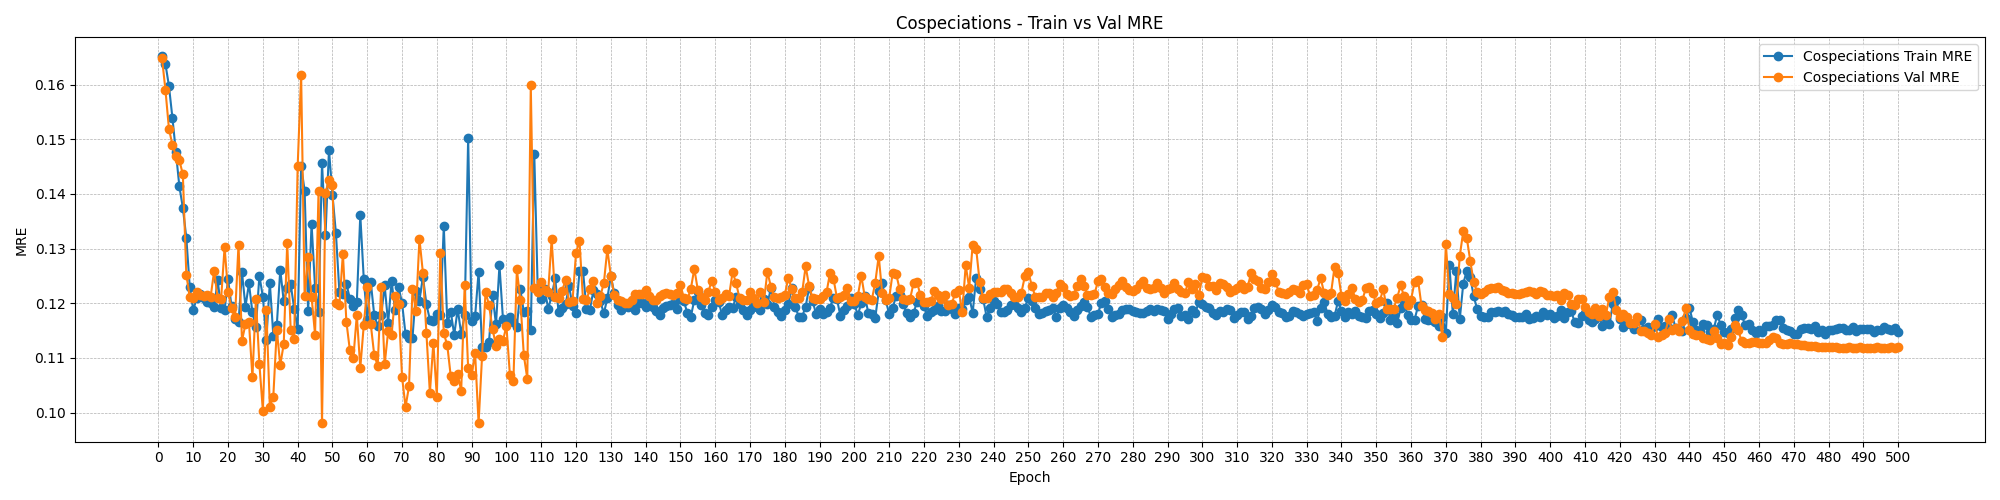
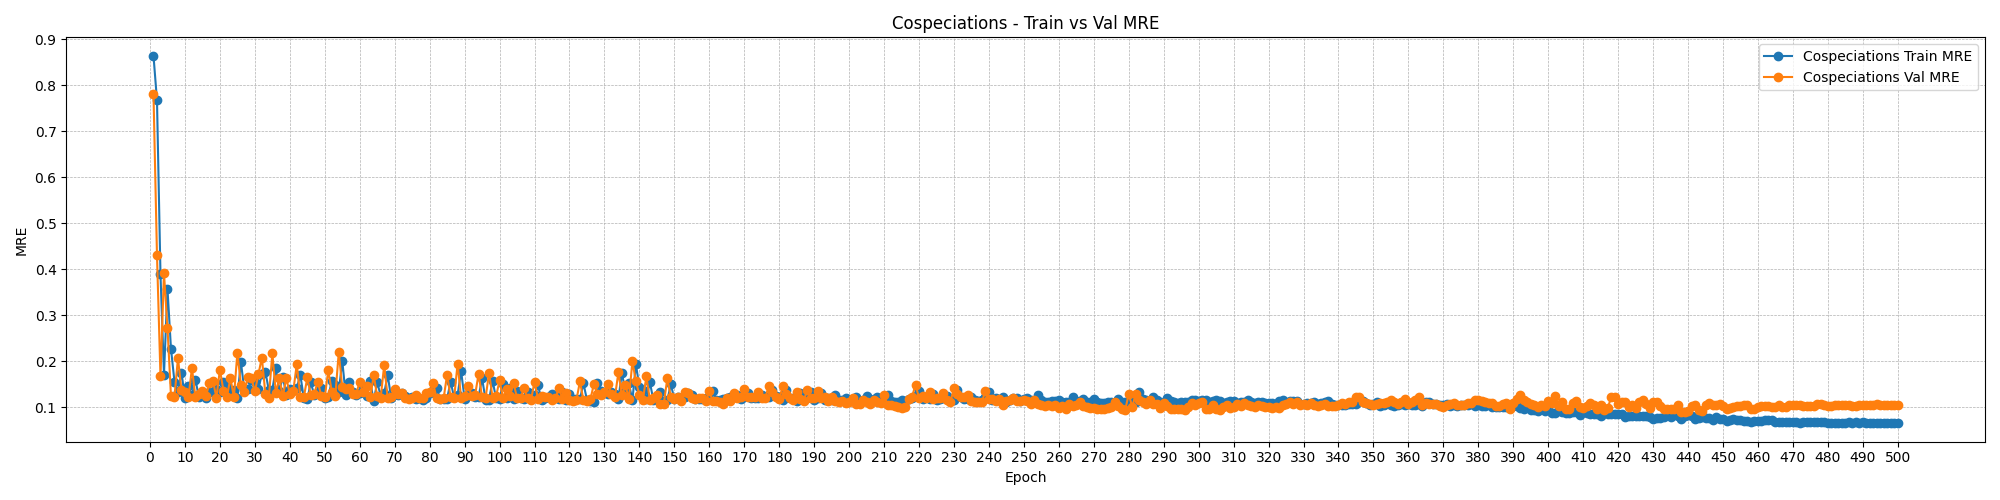
asym latest run to test overfitting

diff --git a/co-phyloformer_asym/train.py b/co-phyloformer_asym/train.py
@@ -251,7 +251,7 @@ def main(fabric: Fabric):
 
     train_loader, val_loader = fabric.setup_dataloaders(train_loader, val_loader)
 
-    lr = 1e-4
+    lr = 3e-4
     wd = 0.0
     criterion = nn.L1Loss(reduction="none")
 
